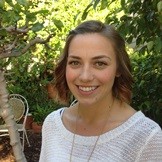
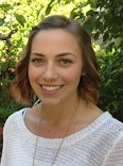
- images + touch-up

diff --git a/app/assets/stylesheets/application.css b/app/assets/stylesheets/application.css
@@ -13,3 +13,10 @@
  *= require_tree .
  *= require_self
  */
+
+.subtitle{
+	font-weight: bold;
+	font-style: italic;
+	margin-top: -8px;
+	margin-bottom: 12px;
+}
